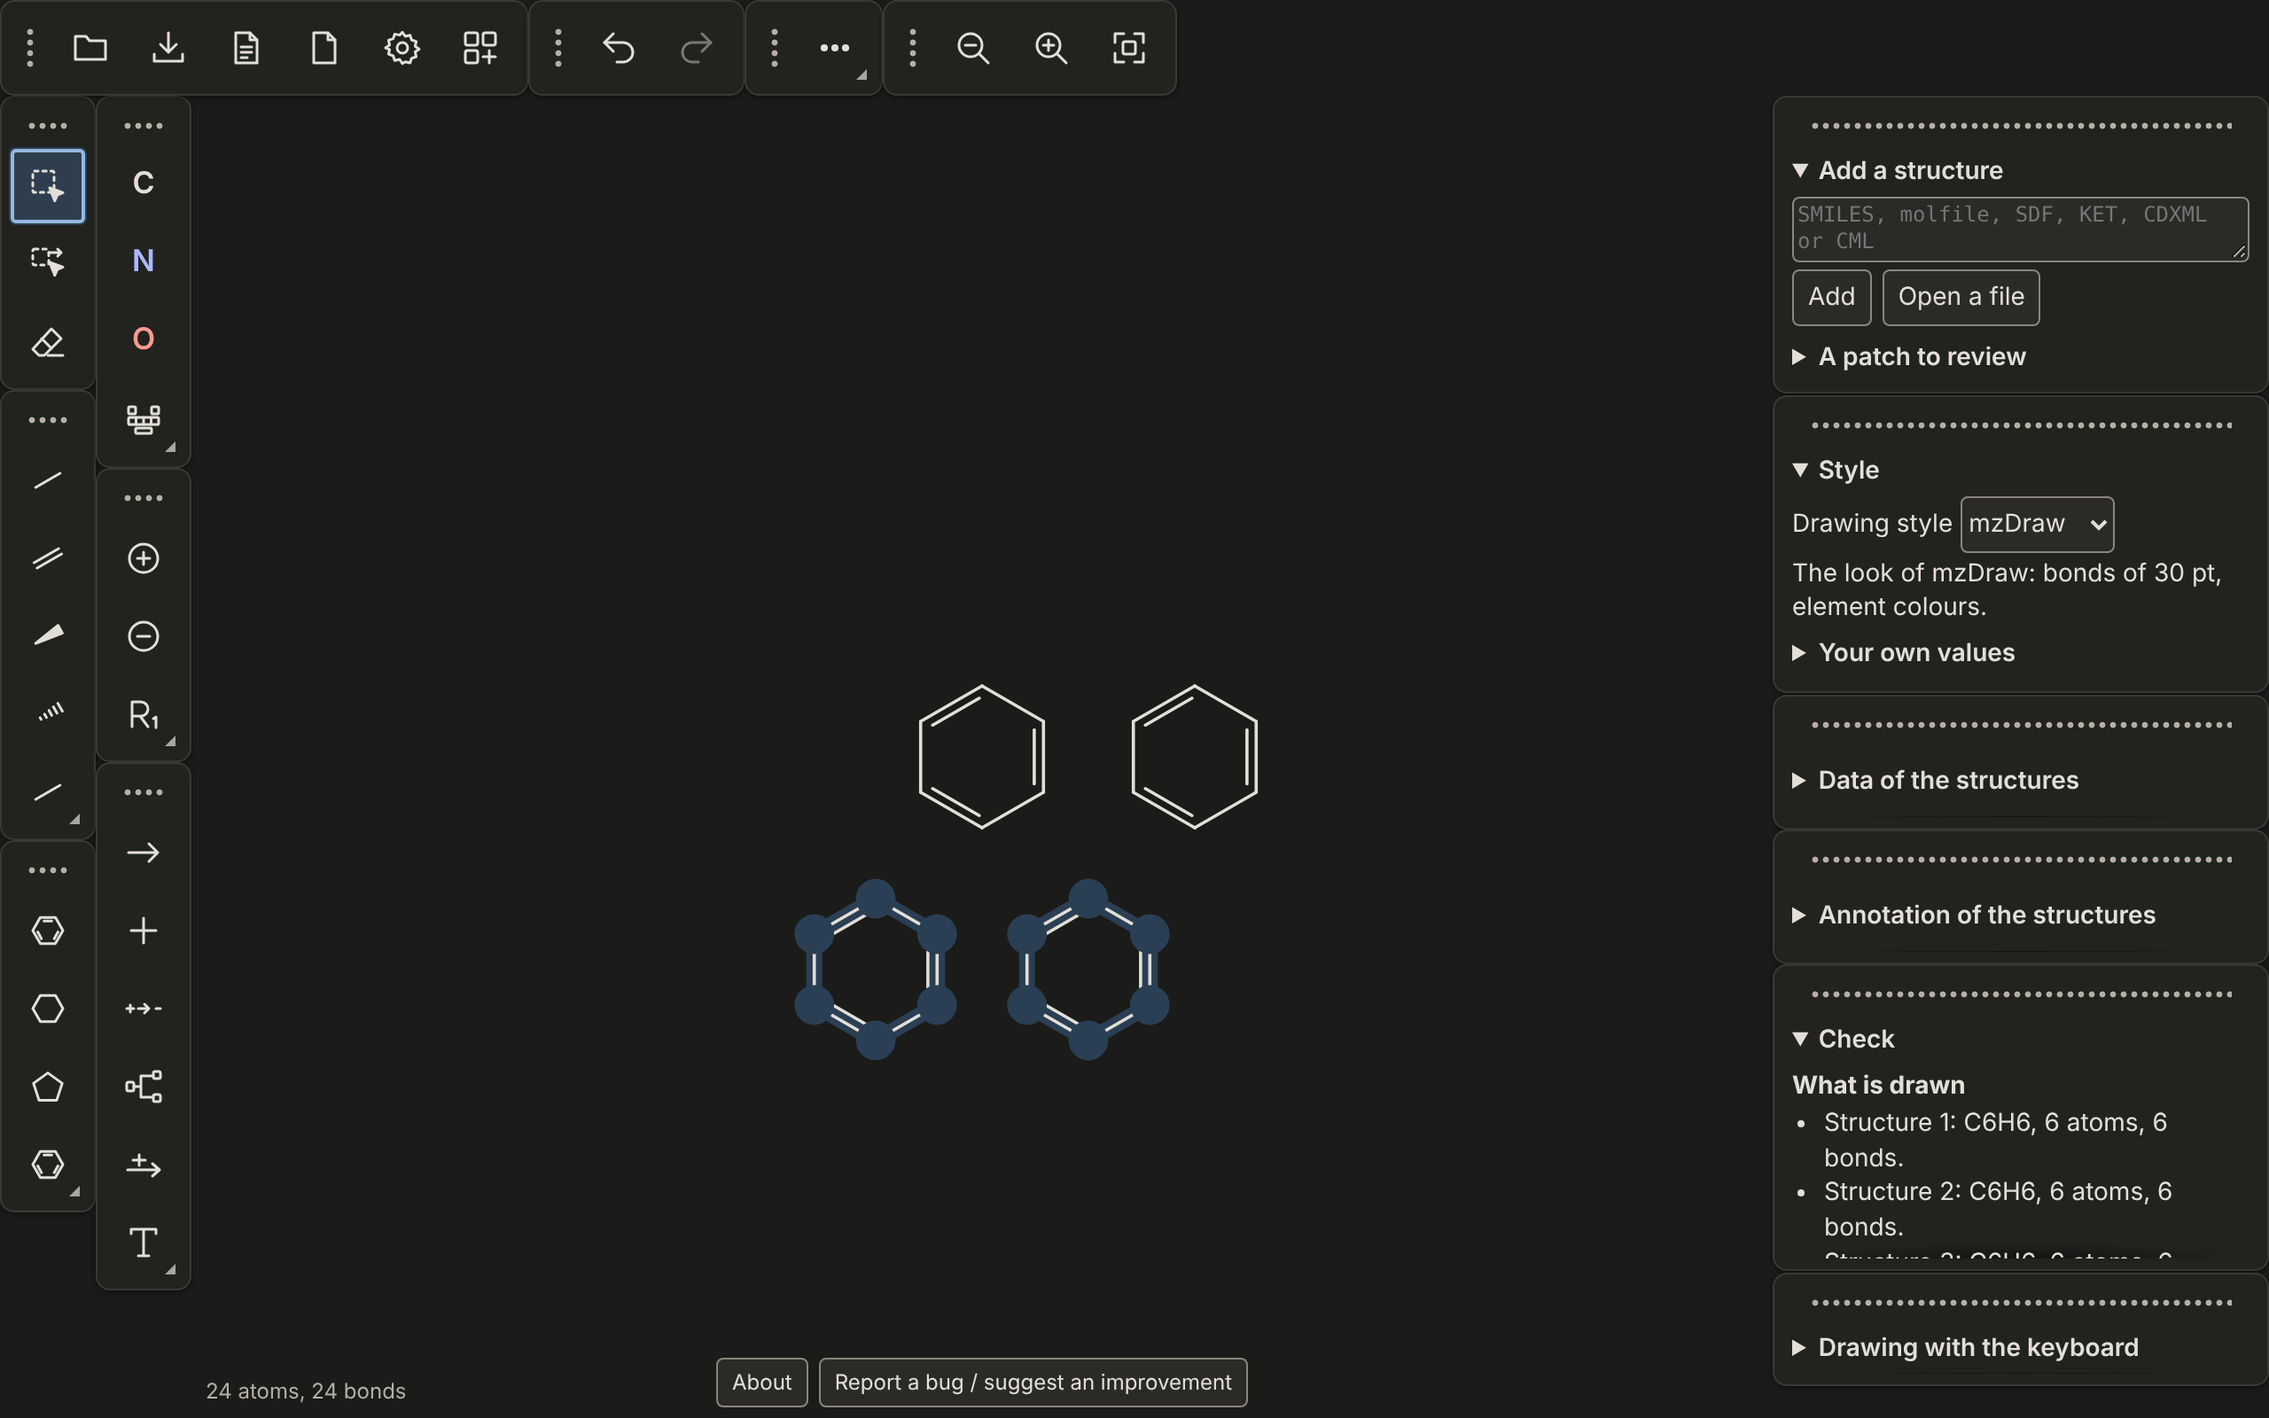
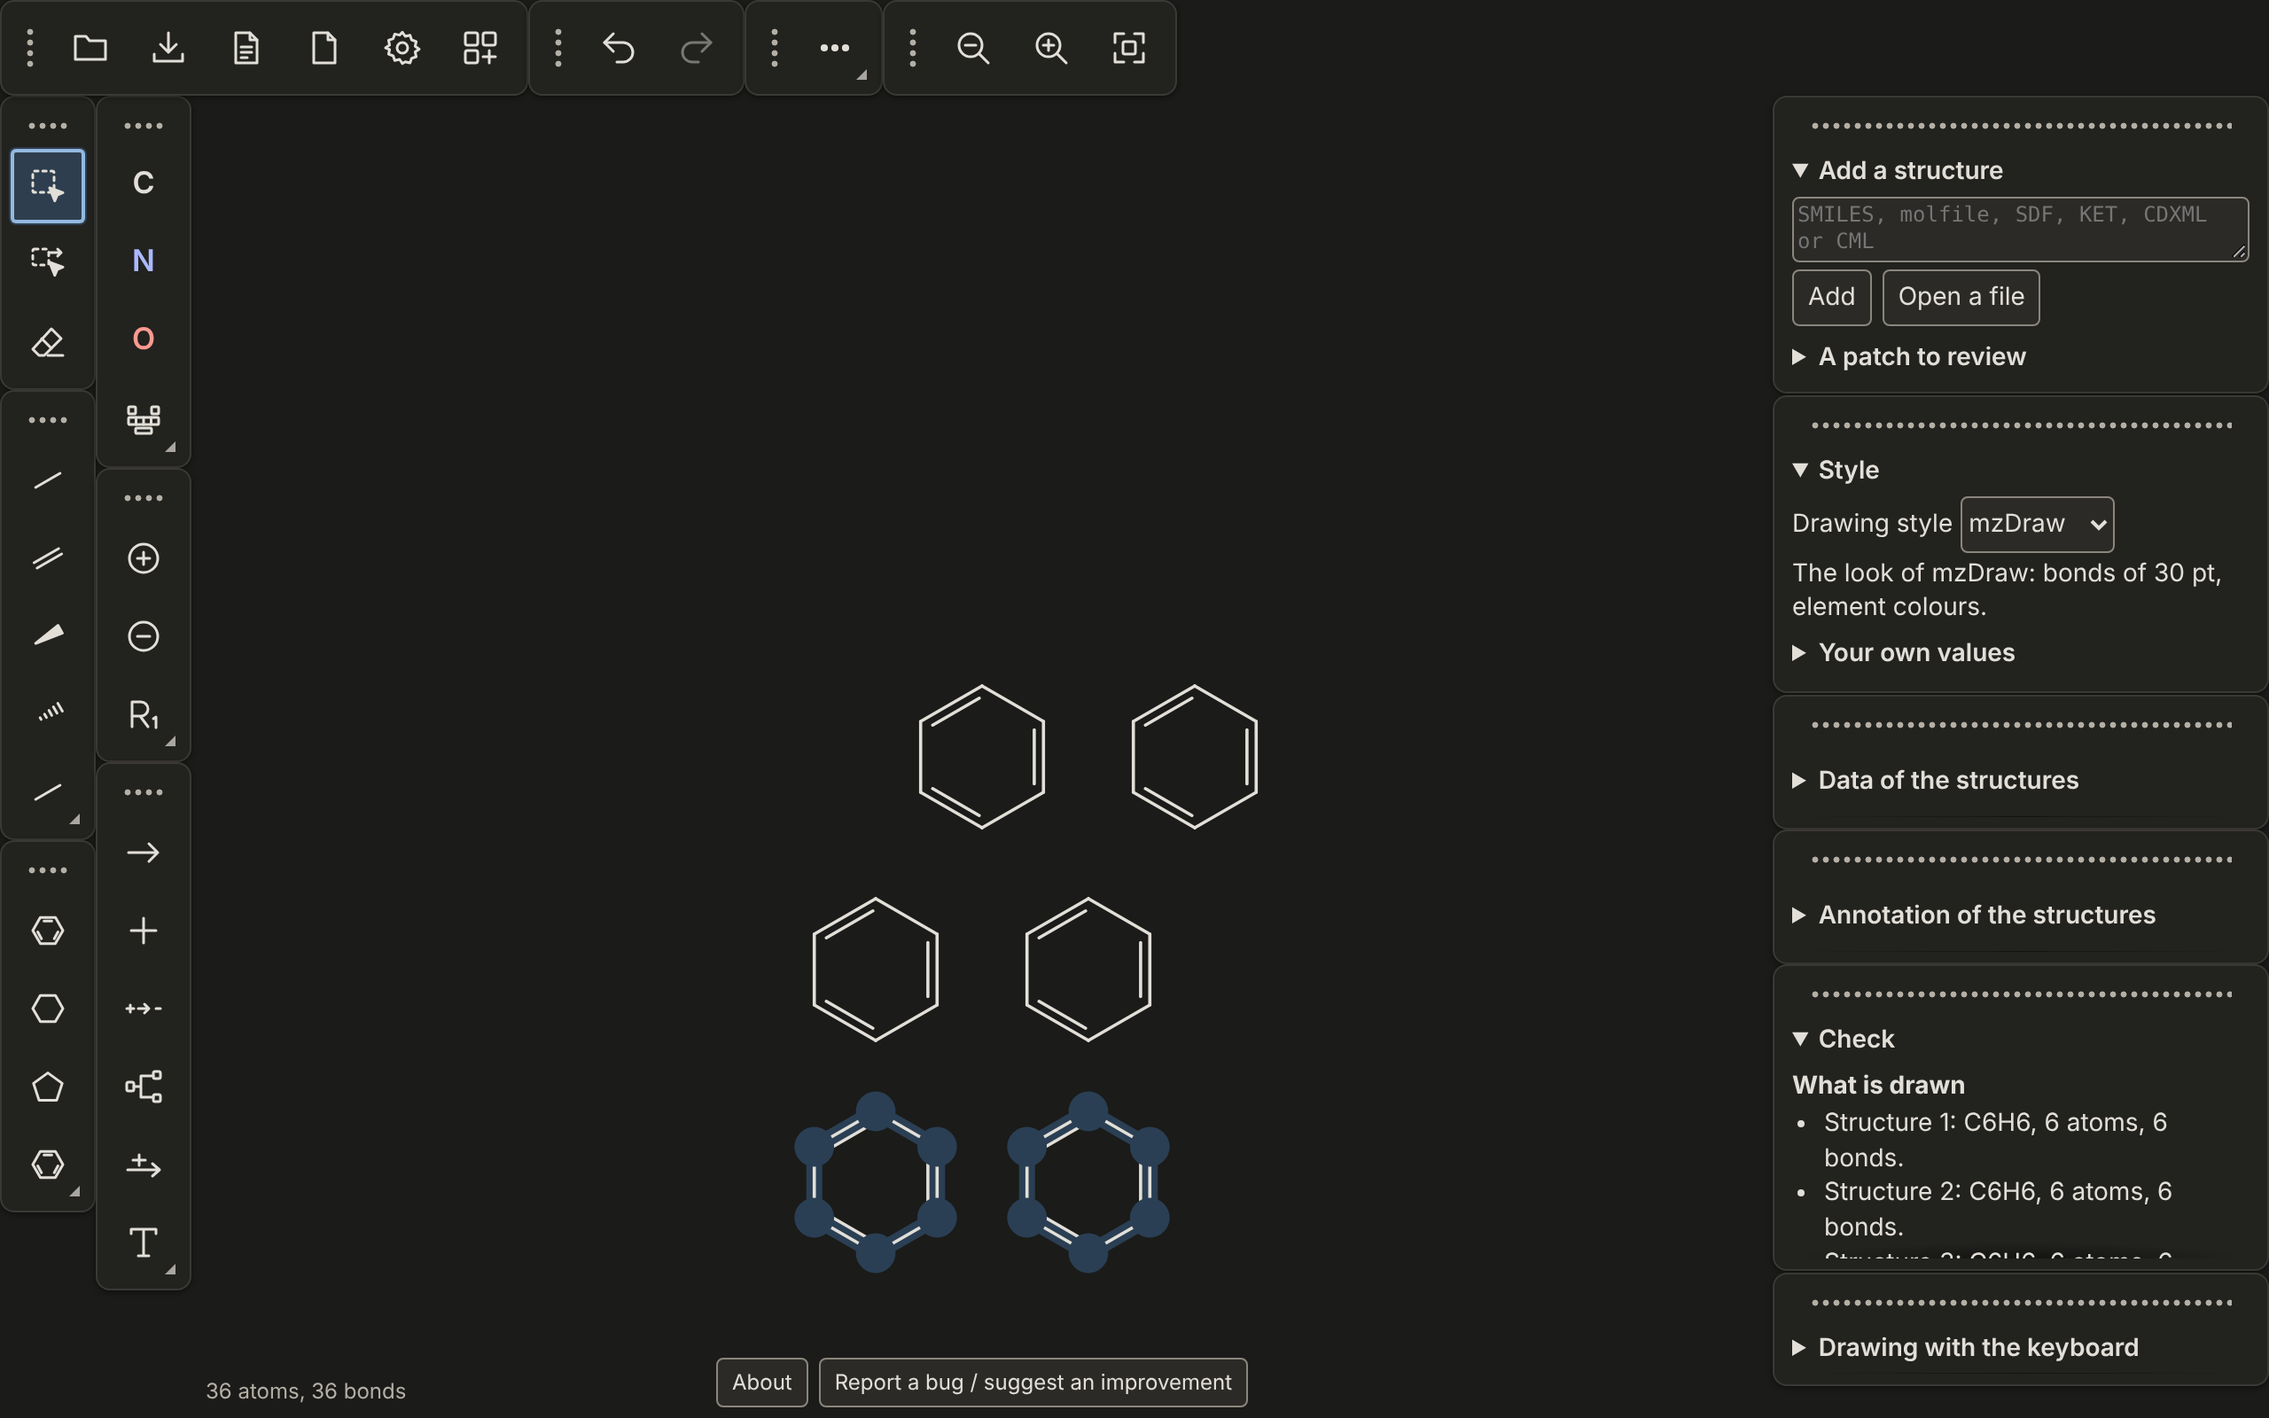
Smart paste review: tests assert the real contract, fallbacks and limits tested, e2e centre and Ctrl+V, velocity copy-paste path follows the free place, queue header counts
Claude-Session: https://claude.ai/code/session_01Ly8ApoS7EKnEW4NqvhwBKu

Changed region(s): [[0.3438, 0.7188, 0.5312, 0.9062], [0.3438, 0.625, 0.5312, 0.7188]]

diff --git a/crates/mzdraw/tests/smart_paste.rs b/crates/mzdraw/tests/smart_paste.rs
@@ -1,7 +1,10 @@
 //! A paste lands in a free place: the view centre when it is free, else the nearest free place to the right and below, never on the
 //! drawing, and the view does not change.
 
-use mzdraw::Editor;
+mod common;
+
+use mzdraw::{Document, Editor};
+use serde_json::json;
 
 const BENZENE: &str = "c1ccccc1";
 
@@ -94,4 +97,114 @@ fn a_paste_is_one_undo_step() {
     e.paste(Some(BENZENE));
     e.undo();
     assert_eq!(e.doc().to_json(), one);
+}
+
+/// A document of atoms only, one per grid point `x0, x0 + 2, ... <= x1` by `y0, y0 + 2, ... <= y1`.
+fn grid(x0: i32, x1: i32, y0: i32, y1: i32) -> String {
+    let mut atoms = Vec::new();
+    let mut id = 1;
+    for y in (y0..=y1).step_by(2) {
+        for x in (x0..=x1).step_by(2) {
+            atoms.push(json!({"id": id, "el": "C", "x": x, "y": y}));
+            id += 1;
+        }
+    }
+    json!({"format": "mzdraw/1", "next": id, "atoms": atoms, "bonds": [], "objects": []})
+        .to_string()
+}
+
+fn pasted_clear(e: &mut Editor, text: &str) -> Document {
+    let old = e.doc().clone();
+    e.paste(Some(text));
+    common::assert_clear(
+        &common::occupied(&old, 0),
+        &common::occupied(e.doc(), old.next - 1),
+    );
+    e.doc().clone()
+}
+
+#[test]
+fn the_first_places_are_exact_and_deterministic() {
+    let mut e = Editor::default();
+    e.paste(Some(BENZENE));
+    let ring: Vec<(f64, f64)> = e.doc().atoms.iter().map(|a| (a.x, a.y)).collect();
+    assert_eq!(
+        ring[0],
+        (0.0, 1.0),
+        "the ring is centred on the view centre"
+    );
+    let old = e.doc().clone();
+    let d = pasted_clear(&mut e, BENZENE);
+    // the second ring: the nearest free cell to the right and below (three bonds to the right: the tie goes to the right)
+    assert_eq!(
+        (d.atoms[6].x - old.atoms[0].x, d.atoms[6].y - old.atoms[0].y),
+        (3.0, 0.0)
+    );
+}
+
+#[test]
+fn a_paste_with_an_arrow_and_a_text_keeps_clear_of_a_drawing() {
+    let mut e = Editor::default();
+    e.paste(Some(BENZENE));
+    e.paste(Some(BENZENE));
+    let part = json!({"format": "mzdraw/1", "next": 10,
+        "atoms": [{"id": 1, "el": "C", "x": 0, "y": 0}, {"id": 2, "el": "O", "x": 1, "y": 0}],
+        "bonds": [{"id": 3, "a": 1, "b": 2, "o": 1}],
+        "objects": [{"id": 4, "t": "arrow", "x": 0, "y": -1.5, "x2": 3, "y2": -1.5},
+                    {"id": 5, "t": "text", "x": 1.5, "y": 1.5, "text": "label"}]})
+    .to_string();
+    let d = pasted_clear(&mut e, &part);
+    assert_eq!((d.atoms.len(), d.objects.len()), (14, 2));
+    // the limit, stated: a text is one anchor point here, its drawn extent is not reserved (a long text may reach a neighbour)
+    assert_eq!(d.objects[1].text, "label");
+}
+
+#[test]
+fn a_part_wider_than_eighty_bonds_lands_at_the_centre_or_clear_of_the_drawing() {
+    let chain = grid(-46, 46, 0, 0); // 93 bonds across
+    let mut e = Editor::default();
+    e.paste(Some(&chain));
+    assert_eq!(e.doc().atoms.len(), 47);
+    let xs: Vec<f64> = e.doc().atoms.iter().map(|a| a.x).collect();
+    let (lo, hi) = (
+        xs.iter().cloned().fold(f64::MAX, f64::min),
+        xs.iter().cloned().fold(f64::MIN, f64::max),
+    );
+    assert!(hi - lo > 80.0);
+    assert!(((lo + hi) / 2.0).abs() < 1e-3, "centred on the view centre");
+    // over a drawing it goes below it
+    let mut f = Editor::default();
+    f.paste(Some(BENZENE));
+    pasted_clear(&mut f, &chain);
+}
+
+#[test]
+fn when_the_quadrant_is_full_the_nearest_free_place_in_any_direction_is_taken() {
+    // a net of atoms two bonds apart over the whole quadrant right and below the centre, to 42 bonds: no cell of it is free
+    let mut e = Editor::default();
+    e.import(&grid(-2, 42, -42, 2)).unwrap();
+    let d = pasted_clear(&mut e, BENZENE);
+    let c: (f64, f64) = {
+        let n = d.atoms.len() - 6;
+        let p = &d.atoms[n..];
+        (
+            p.iter().map(|a| a.x).sum::<f64>() / 6.0,
+            p.iter().map(|a| a.y).sum::<f64>() / 6.0,
+        )
+    };
+    assert!(c.0 < -2.0 || c.1 > 2.0, "left of or above the net: {c:?}");
+}
+
+#[test]
+fn when_no_cell_is_free_the_part_goes_to_the_right_of_the_drawing() {
+    let mut e = Editor::default();
+    e.import(&grid(-44, 44, -44, 44)).unwrap();
+    let right = e.doc().atoms.iter().map(|a| a.x).fold(f64::MIN, f64::max);
+    let d = pasted_clear(&mut e, BENZENE);
+    let new = &d.atoms[d.atoms.len() - 6..];
+    let left = new.iter().map(|a| a.x).fold(f64::MAX, f64::min);
+    assert!(
+        (left - (right + 2.0)).abs() < 1e-3,
+        "two bonds right of the drawing: {left} {right}"
+    );
 }

diff --git a/crates/mzdraw/tests/stereo_clipboard.rs b/crates/mzdraw/tests/stereo_clipboard.rs
@@ -1,6 +1,8 @@
 //! Wedge marks as the drawing and the stereo of the record derived from them, rotate and flip, and the clipboard, driven as the page
 //! drives them.
 
+mod common;
+
 use mzdraw::editor::{CHANGED, CTRL, HANDLED, MOUSE, SHIFT, TOOL};
 use mzdraw::scene::{LINE, TRI};
 use mzdraw::{svg, Axis, Document, Editor};
@@ -224,6 +226,7 @@ fn copy_cut_paste_and_duplicate() {
         rec.stereo
     );
     let before = e.doc().to_json();
+    let src = e.doc().clone();
     // a paste is one undo step, lands in a free place (not on the drawing), becomes the selection and picks the Select tool
     e.set_tool("bond:1");
     let f = e.paste(None);
@@ -233,7 +236,7 @@ fn copy_cut_paste_and_duplicate() {
     assert_eq!((e.over.sel_atoms.len(), e.over.sel_bonds.len()), (6, 5));
     let (a, b) = (e.doc().atoms[0].clone(), e.doc().atoms[6].clone());
     let (dx, dy) = (b.x - a.x, b.y - a.y);
-    assert!((dx, dy) != (0.0, 0.0), "the copy is not on the source");
+    assert_eq!((dx, dy), (-1.25, -4.0), "the deterministic free place");
     for i in 0..6 {
         let (p, q) = (&e.doc().atoms[i], &e.doc().atoms[6 + i]);
         assert!(
@@ -241,35 +244,42 @@ fn copy_cut_paste_and_duplicate() {
             "a translation"
         );
     }
-    let apart = |e: &Editor, from: usize| {
-        let at = &e.doc().atoms;
-        at[from..].iter().all(|n| {
-            at[..from]
-                .iter()
-                .all(|o| (n.x - o.x).hypot(n.y - o.y) > 0.5)
-        })
+    let clear = |e: &Editor, before: &Document| {
+        common::assert_clear(
+            &common::occupied(before, 0),
+            &common::occupied(e.doc(), before.next - 1),
+        )
     };
-    assert!(apart(&e, 6));
+    clear(&e, &src);
     assert_eq!(
         e.doc().bonds.iter().filter(|b| b.s != 0).count(),
         2,
         "the copy keeps its wedge"
     );
-    // the second paste lands in a free place too
+    // the second paste lands in a free place too: clear of the source and of the first copy
+    let two = e.doc().clone();
     e.paste(None);
-    assert!(apart(&e, 12));
+    clear(&e, &two);
+    let third: Vec<(f64, f64)> = e.doc().atoms[12..].iter().map(|a| (a.x, a.y)).collect();
+    assert!(third.iter().all(|t| e.doc().atoms[..12]
+        .iter()
+        .all(|o| (t.0 - o.x).hypot(t.1 - o.y) > 0.5)));
     e.undo();
     e.undo();
     assert_eq!(e.doc().to_json(), before);
-    // the same text coming back from the system clipboard is pasted the same way
+    // the same text coming back from the system clipboard is pasted the same way (same place as the first paste)
     e.paste(Some(&e.clipboard("mzdraw")));
     assert_eq!(e.doc().atoms.len(), 12);
-    assert!(apart(&e, 6));
+    assert_eq!(
+        (e.doc().atoms[6].x - a.x, e.doc().atoms[6].y - a.y),
+        (dx, dy)
+    );
+    clear(&e, &src);
     e.undo();
+    // a text from elsewhere is placed the same way, clear of the drawing
     e.paste(Some("CCO"));
     assert_eq!(e.doc().atoms.len(), 9);
-    assert!(apart(&e, 6));
-    assert_eq!(e.over.sel_atoms.len(), 3);
+    clear(&e, &src);
     // a text that is no structure changes nothing and says why
     let n = e.doc().to_json();
     e.paste(Some("not a structure at all ((("));

diff --git a/crates/mzdraw/tests/common/mod.rs b/crates/mzdraw/tests/common/mod.rs
@@ -2,6 +2,8 @@
 //! A file holds some of the sections `cases`, `contexts`, `refused`, `results`, `schemas`, `settings`, `pdf`, `trasf`, `diffs`, `losses`, `values`, `feedbacks` (a missing section is an empty one);
 //! `tests/parity.mjs` reads the same folder the same way.
 
+#![allow(dead_code)] // each test file uses the part it needs
+
 use serde_json::Value;
 use std::path::PathBuf;
 
@@ -49,4 +51,72 @@ pub fn section<'a>(fx: &'a Value, key: &str) -> &'a [Value] {
     fx.get(key)
         .and_then(Value::as_array)
         .map_or(&[], Vec::as_slice)
+}
+
+/// A point a drawing occupies: an atom or an object anchor (`sample` false), or a sample along a bond or an arrow (`sample` true).
+#[derive(Clone, Copy, Debug)]
+pub struct Pt {
+    pub x: f64,
+    pub y: f64,
+    pub sample: bool,
+}
+
+fn along(out: &mut Vec<Pt>, a: (f64, f64), b: (f64, f64)) {
+    let n = ((b.0 - a.0).hypot(b.1 - a.1) / 0.05).ceil().max(1.0) as usize;
+    for k in 1..n {
+        let t = k as f64 / n as f64;
+        out.push(Pt {
+            x: a.0 + (b.0 - a.0) * t,
+            y: a.1 + (b.1 - a.1) * t,
+            sample: true,
+        });
+    }
+}
+
+/// What a drawing occupies, sampled every 0.05 bond along bonds and arrows: the atoms, bonds and objects whose id is above `above`
+/// (0 for everything). An independent reading of the contract of a paste: it does not use the code that places.
+pub fn occupied(d: &mzdraw::Document, above: u32) -> Vec<Pt> {
+    let mut v = Vec::new();
+    for a in d.atoms.iter().filter(|a| a.id > above) {
+        v.push(Pt {
+            x: a.x,
+            y: a.y,
+            sample: false,
+        });
+    }
+    for b in d.bonds.iter().filter(|b| b.a > above && b.b > above) {
+        let (p, q) = (d.atom(b.a).unwrap(), d.atom(b.b).unwrap());
+        along(&mut v, (p.x, p.y), (q.x, q.y));
+    }
+    for o in d.objects.iter().filter(|o| o.id > above) {
+        v.push(Pt {
+            x: o.x,
+            y: o.y,
+            sample: false,
+        });
+        if o.t == mzdraw::ObjKind::Arrow {
+            v.push(Pt {
+                x: o.x2,
+                y: o.y2,
+                sample: false,
+            });
+            along(&mut v, (o.x, o.y), (o.x2, o.y2));
+        }
+    }
+    v
+}
+
+/// The contract of a paste: no point of the pasted part lies within half a bond (a quarter for a sample along a bond or an arrow, the
+/// grain the placement looks at) of a point of the old drawing, in either direction of either axis.
+pub fn assert_clear(old: &[Pt], new: &[Pt]) {
+    assert!(!new.is_empty(), "nothing was pasted");
+    for p in new {
+        for q in old {
+            let margin = if q.sample { 0.25 } else { 0.5 } - 1e-3;
+            assert!(
+                (p.x - q.x).abs() >= margin || (p.y - q.y).abs() >= margin,
+                "{p:?} lies on {q:?}"
+            );
+        }
+    }
 }

diff --git a/crates/mzdraw/tests/objects.rs b/crates/mzdraw/tests/objects.rs
@@ -1,6 +1,8 @@
 //! Reaction arrows, plus signs and texts: objects of the document next to the molecules, with the same exact undo, selection,
 //! clipboard and painting as atoms.
 
+mod common;
+
 use mzdraw::editor::{ASK_TEXT, CHANGED, HANDLED, MOUSE, SHIFT, TOOL};
 use mzdraw::{svg, Document, Editor, ObjKind, Op, Session};
 
@@ -226,14 +228,20 @@ fn objects_are_selected_dragged_erased_copied_and_pasted() {
     e.select_all();
     assert_eq!((e.over.sel_atoms.len(), e.over.sel_objs.len()), (2, 2));
     assert!(e.copy());
+    let (old_doc, above) = (e.doc().clone(), e.doc().next - 1);
     e.paste(None);
     assert_eq!((e.doc().atoms.len(), e.doc().objects.len()), (4, 4));
     assert_eq!(e.over.sel_objs.len(), 2);
     let (o, c) = (e.doc().objects[0].clone(), e.doc().objects[2].clone());
-    // the copy keeps its shape and lands in a free place (smart paste), not on the source
+    // the copy is the source shifted by the one deterministic shift of the free place, shape and text kept
     let (dx, dy) = (c.x - o.x, c.y - o.y);
-    assert!((dx, dy) != (0.0, 0.0), "the copy is not on the source");
-    assert!(((c.x2 - o.x2) - dx).abs() < 1e-9 && ((c.y2 - o.y2) - dy).abs() < 1e-9);
+    assert_eq!((dx, dy), (-2.125, -3.0));
+    assert_eq!((c.x2 - o.x2, c.y2 - o.y2), (dx, dy));
+    // nothing pasted (atoms, the bond samples, the arrow line, the anchors) lies on the old drawing
+    common::assert_clear(
+        &common::occupied(&old_doc, 0),
+        &common::occupied(e.doc(), above),
+    );
     assert_eq!(e.doc().objects[3].text, "reflux");
     e.undo();
     // a band takes the objects whose anchor it holds; Delete removes them with the atoms

diff --git a/docs/built/arch-cd-16-smart-paste.md b/docs/built/arch-cd-16-smart-paste.md
@@ -27,6 +27,12 @@ request (its i18n key). Golden cases: `tests/data/log/smart-paste.json`.
 `crates/mzdraw/tests/smart_paste.rs` (centre of an empty view, no overlap on repeated pastes, view unchanged, one undo step, determinism);
 the golden file above (wasm == native, `tests/parity.mjs`); e2e: keyboard, context menu (mouse), touch and pen.
 
+## Limits (tested)
+
+- A text object is one anchor point for the placement: its drawn extent is not reserved, so a long text may reach a neighbour (`a_paste_with_an_arrow_and_a_text_keeps_clear_of_a_drawing`).
+- A part wider than 80 bonds is placed by the same rule (box over the centre, then the free cells); `a_part_wider_than_eighty_bonds_...`.
+- Fallbacks: quadrant right and below full, then any direction within 40 bonds, then two bonds right of the drawing (`when_the_quadrant_is_full_...`, `when_no_cell_is_free_...`).
+
 ## Not built
 
 - Copy as SMILES, molfile, KET, image (arch-web-21); native clipboard formats of the desktop shell (J07).

diff --git a/docs/plan/queue.md b/docs/plan/queue.md
@@ -10,7 +10,7 @@ Status:
 - **WITHDRAWN**: dropped by the backlog (`docs/plan/backlog.md` section 3).
 - **GATED**: waits for a decision or a run outside the repository.
 
-Checked against `main` at `4d39021` (2026-11-21). Prompt files: 107. MERGED 34, RUNNING 0, QUEUED 54, SUPERSEDED 15, WITHDRAWN 3, GATED 1. The order and the reasons of the plan are in `docs/plan/backlog.md`; "depends/gate" is the "Depends on" line of the prompt, cut.
+Checked against `main` at `4d39021` (2026-11-21). Prompt files: 107. MERGED 34, RUNNING 1, QUEUED 53, SUPERSEDED 15, WITHDRAWN 3, GATED 1. The order and the reasons of the plan are in `docs/plan/backlog.md`; "depends/gate" is the "Depends on" line of the prompt, cut.
 
 | prompt id | title | status | evidence | depends/gate | note |
 |---|---|---|---|---|---|
